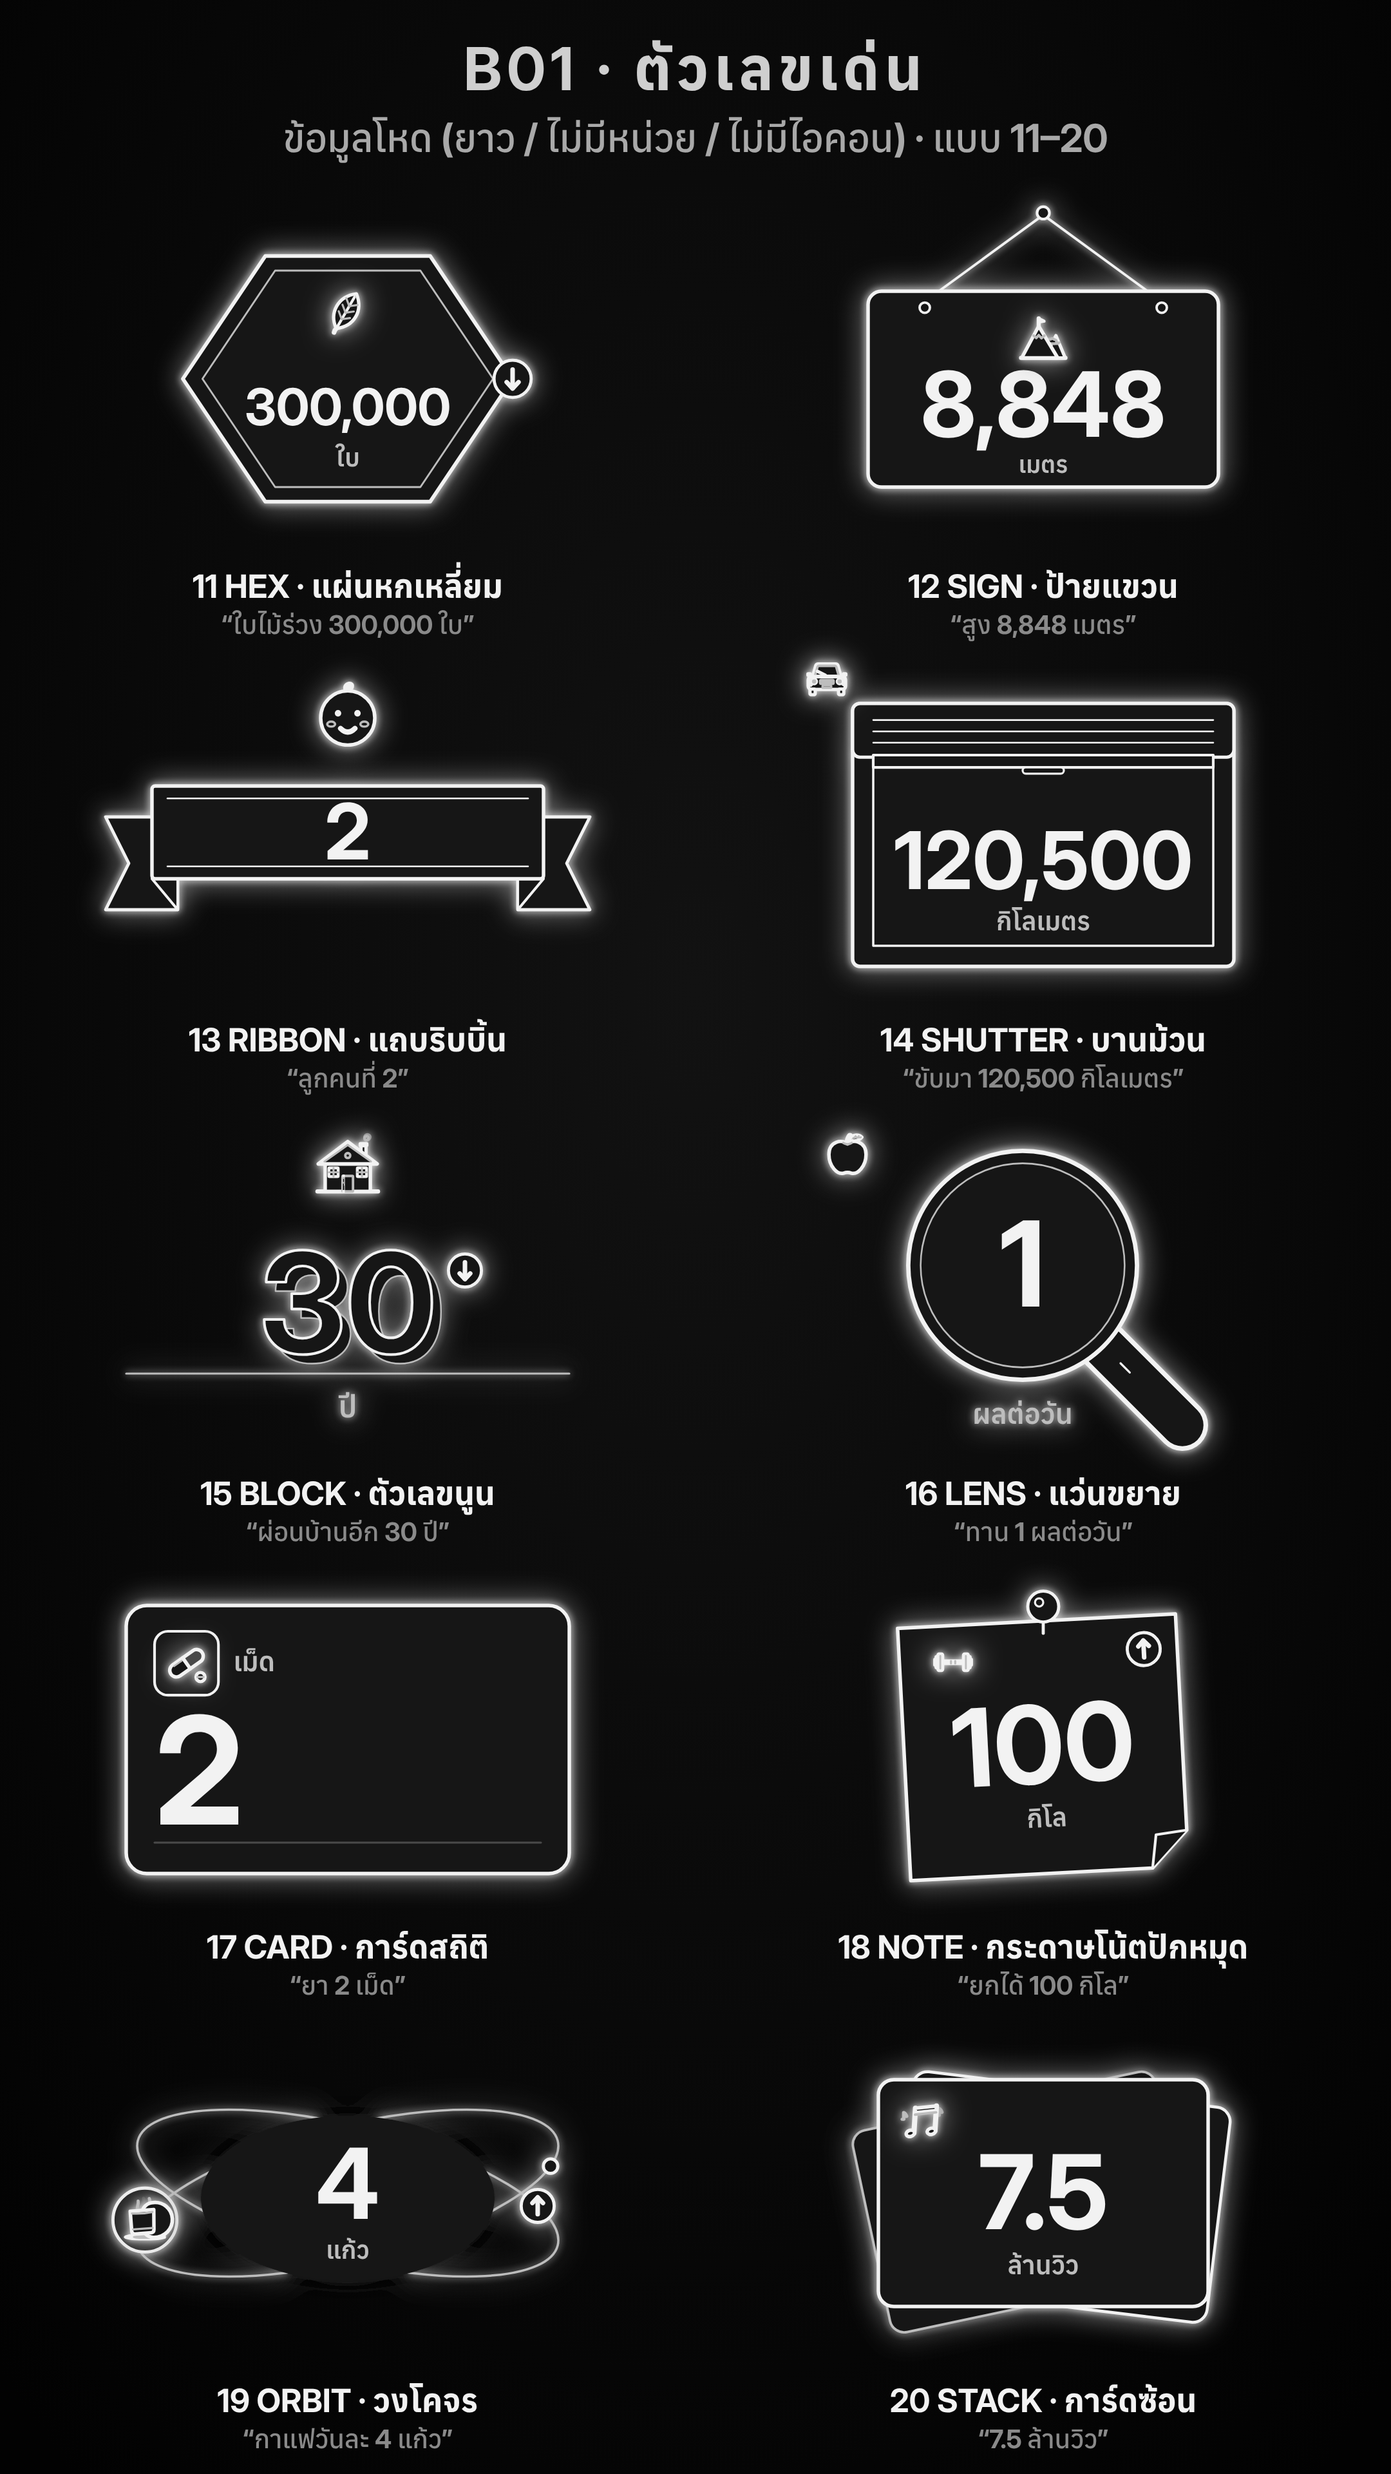
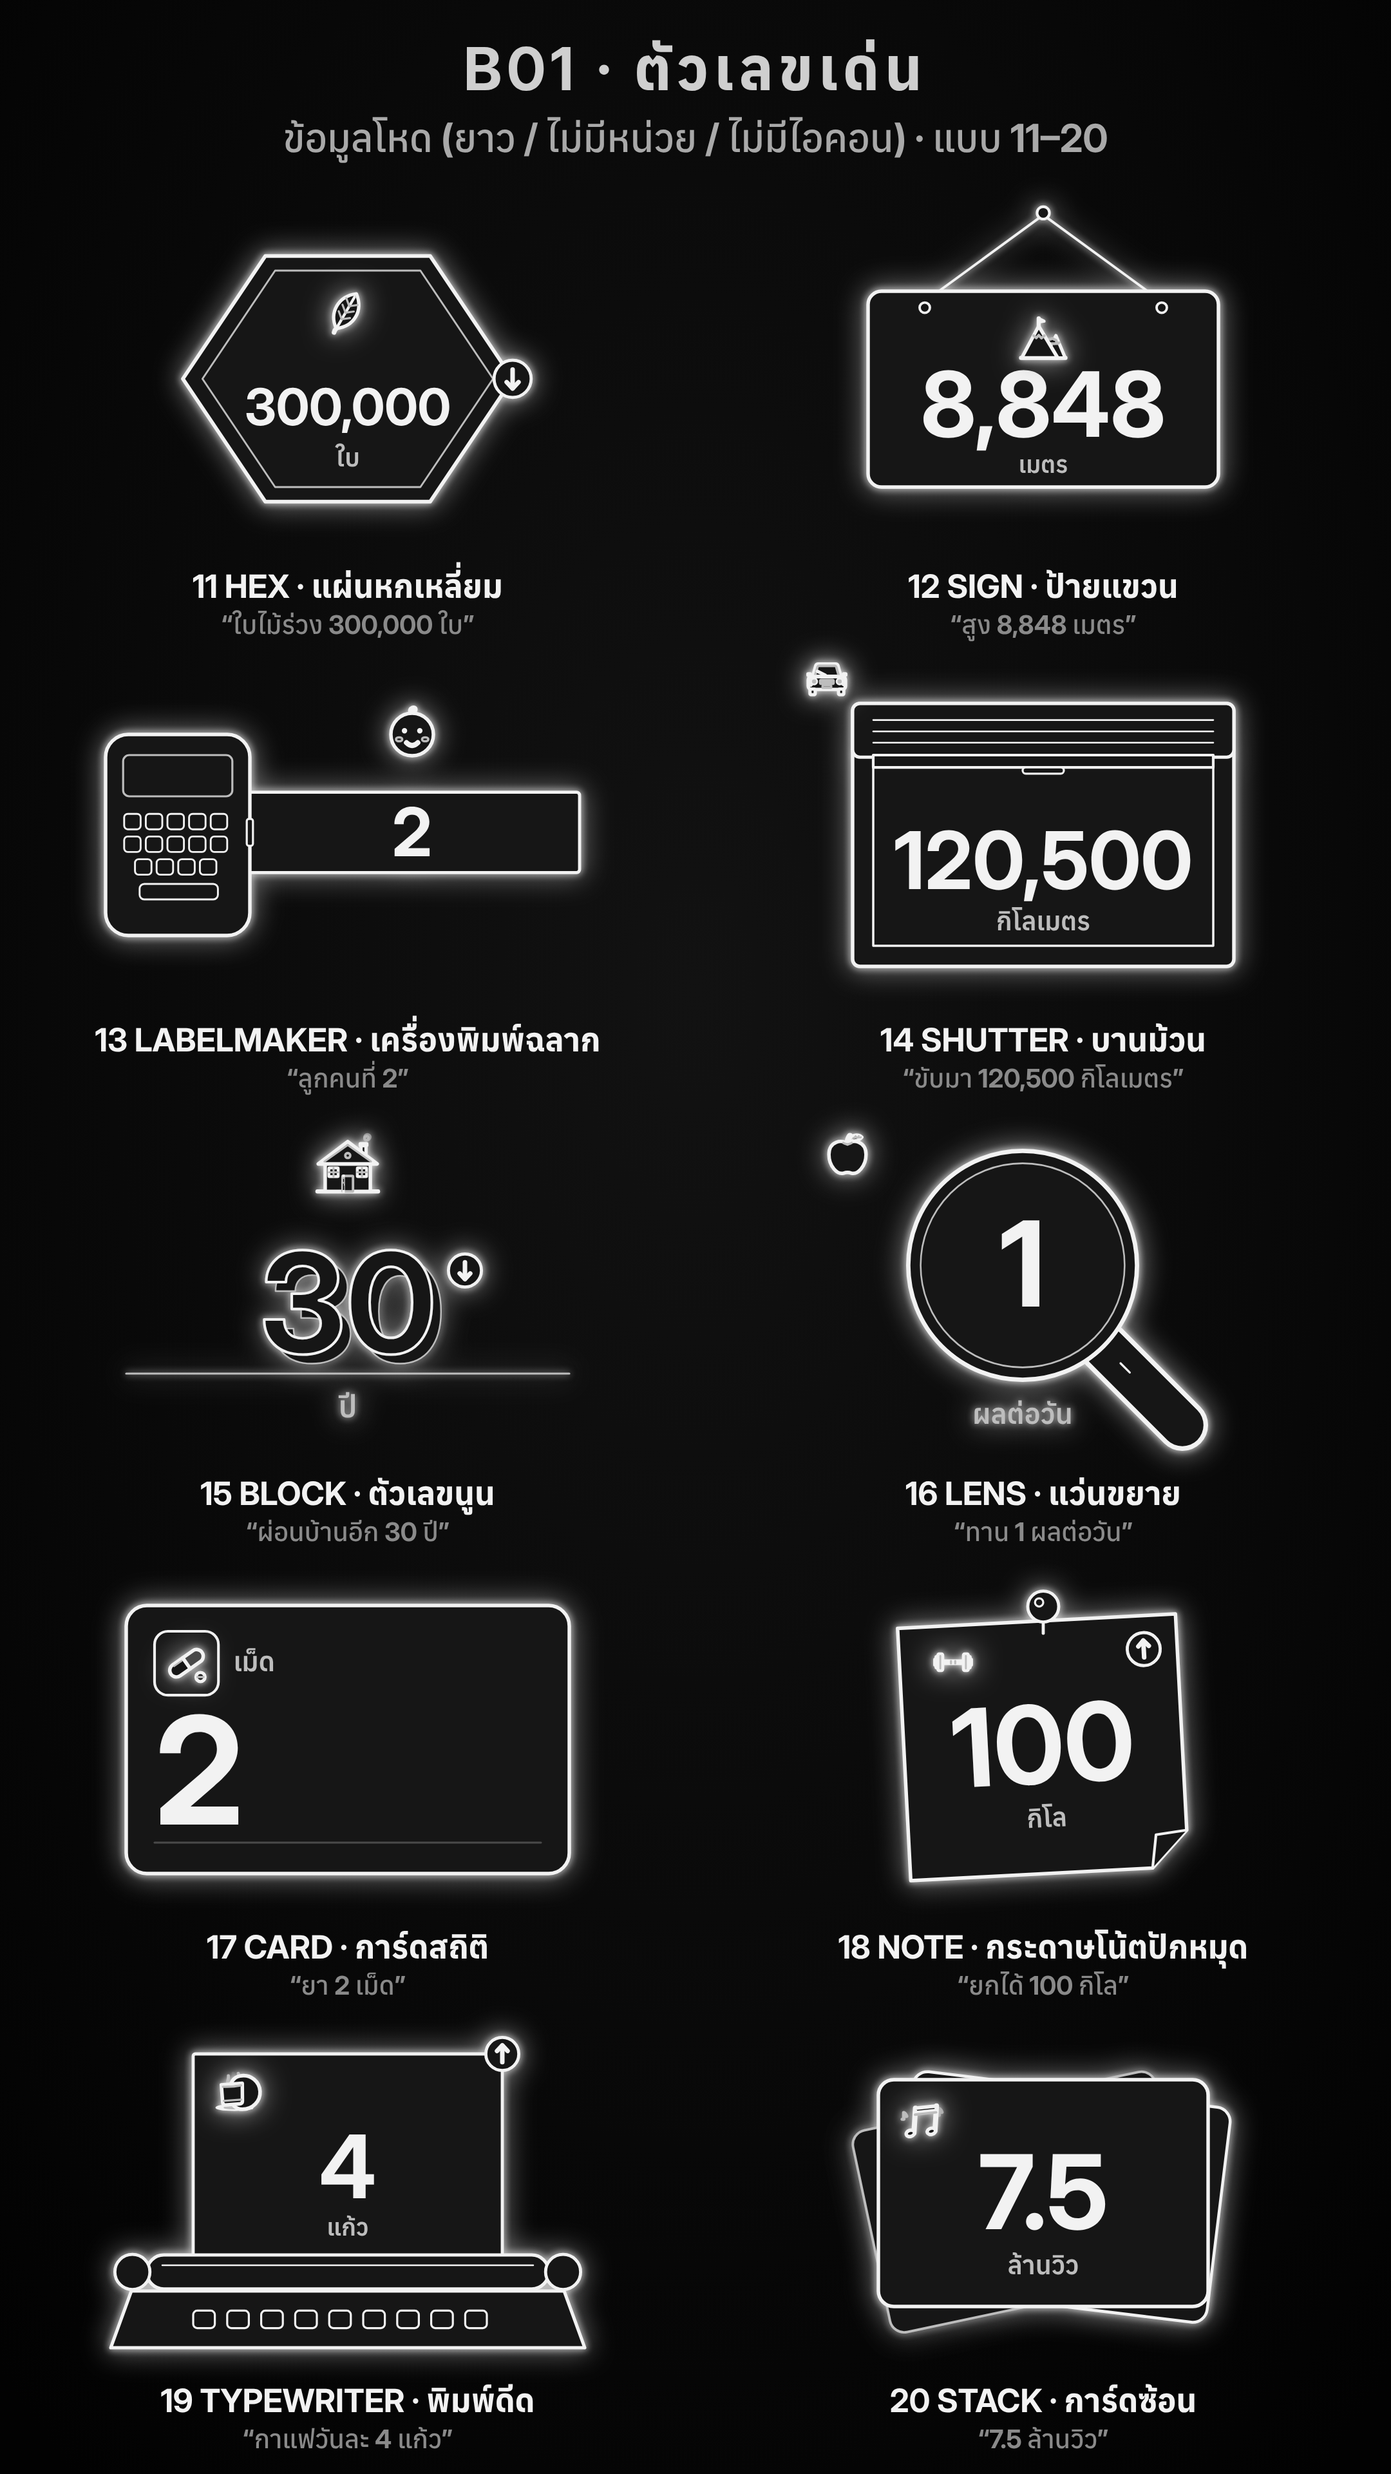
glow-line-motion: B01 design 19 = typewriter, 13 = label maker (user's picks); sheets updated
Claude-Session: https://claude.ai/code/session_01S8EfU7fAEGeBWyNc1CqSTP

Changed region(s): [[0.062, 0.8125, 0.4343, 1.0], [0.062, 0.25, 0.4343, 0.4375], [0.2792, 0.4062, 0.4343, 0.4375]]

diff --git a/.claude/skills/glow-line-motion/examples/b01/b01.js b/.claude/skills/glow-line-motion/examples/b01/b01.js
@@ -257,18 +257,20 @@
     icon(d, 0, -78, 88, c);
   });
 
-  /* 13 ── RIBBON: a banner with folded tails, unit under it, icon above */
-  variant('ribbon', 'แถบริบบิ้น', (d, c) => {
+  /* 13 ── LABEL MAKER: a hand label maker has printed the number on a strip of tape (user's pick over RIBBON, 2026-11-12) */
+  variant('labelmaker', 'เครื่องพิมพ์ฉลาก', (d, c) => {
     art(c, p => {
-      [-1, 1].forEach(s => { p.shape([[s * 470, -30], [s * 330, -30], [s * 330, 150], [s * 470, 150], [s * 425, 60]], F(3));
-        p.shape([[s * 380, 90], [s * 330, 150], [s * 330, 90]], F(2.6)); });
-      p.rect(-380, -90, 760, 180, Object.assign({ rx: 6 }, F(3.4)));
-      p.line(-350, -66, 350, -66, W(1.6)); p.line(-350, 66, 350, 66, W(1.6));
-      txt(p, d.value, 0, 52, { size: 150, maxW: 640 });
-      if (d.unit) txt(p, d.unit, 0, 245, { size: 58, weight: 600, color: C.soft, maxW: 720 });
-      dirBadge(p, d.dir, 380, -90, 32);
+      p.rect(-200, -78, 650, 156, Object.assign({ rx: 6 }, F(3)));
+      p.rect(-470, -190, 280, 390, Object.assign({ rx: 44 }, F(3.4)));
+      p.rect(-436, -150, 212, 80, Object.assign({ rx: 12 }, { fill: C.fill, sw: 2, stroke: C.soft }));
+      for (let r = 0; r < 3; r++) for (let k = 0; k < 5 - (r === 2 ? 1 : 0); k++) p.rect(-434 + k * 42 + (r === 2 ? 21 : 0), -36 + r * 44, 32, 30, Object.assign({ rx: 7 }, F(1.8)));
+      p.rect(-404, 100, 152, 30, Object.assign({ rx: 9 }, F(1.8)));
+      p.rect(-196, -26, 12, 52, Object.assign({ rx: 4 }, F(2)));
+      txt(p, d.value, 125, 46, { size: 130, maxW: 560 });
+      if (d.unit) txt(p, d.unit, 125, 160, { size: 52, weight: 600, color: C.soft, maxW: 600 });
+      dirBadge(p, d.dir, 450, -78, 30);
     });
-    icon(d, 0, -222, 140, c);
+    icon(d, 125, -190, 110, c);
   });
 
   /* 14 ── SHUTTER: a roller shutter has rolled up into its box, the number stands in the opening (user picked it over CUBE, 2026-11-12) */
@@ -343,29 +345,8 @@
     icon(d, -175, -150, 82, c);
   });
 
-  /* round-2 alternatives (2026-11-12): the user turned down neon / marker / letterboard for 19, and asked to redesign 13 too —
-     everyday objects with a mechanism (what the user picked so far: pinned note, roller shutter). Kept outside V until picked. */
-  const ALT19 = [], ALT13 = [];
-  const alt = (L, id, th, build) => L.push({ id, th, build });
-
-  /* 19a ── STAMP: a rubber stamp has just printed the number onto a sheet of paper */
-  alt(ALT19, 'stamp', 'ตรายาง', (d, c) => {
-    art(c, p => {
-      const q = p.child({ transform: 'rotate(-3 -110 70)' });
-      q.rect(-420, -140, 620, 400, Object.assign({ rx: 10 }, F(3.2)));
-      const t = txt(q, d.value, -110, d.unit ? 95 : 115, { size: 170, maxW: 460 }), bb = t.bb;
-      const bw = Math.max(bb.width, d.unit ? 260 : 0) + 70;
-      q.rect(f1(-110 - bw / 2), -40, f1(bw), d.unit ? 230 : 210, { rx: 18, sw: 4.4 });
-      if (d.unit) txt(q, d.unit, -110, 165, { size: 44, weight: 700, maxW: bw - 50 });
-      p.rect(200, -168, 200, 36, Object.assign({ rx: 6 }, F(3))); p.rect(214, -232, 172, 64, Object.assign({ rx: 10 }, F(3.2)));
-      p.rect(278, -286, 44, 54, F(2.8)); p.ellipse(300, -306, 58, 34, F(3.2)); p.line(228, -200, 372, -200, W(1.6));
-      dirBadge(p, d.dir, -420, -140, 32);
-    });
-    icon(d, 60, -250, 100, c);
-  });
-
-  /* 19b ── TYPEWRITER: the number has been typed on a sheet that sits in the platen roller */
-  alt(ALT19, 'typewriter', 'พิมพ์ดีด', (d, c) => {
+  /* 19 ── TYPEWRITER: the number has been typed on a sheet that sits in the platen roller (user's pick over ORBIT, 2026-11-12) */
+  variant('typewriter', 'พิมพ์ดีด', (d, c) => {
     art(c, p => {
       p.path('M -420 190 L 420 190 L 460 300 L -460 300 Z', F(3.2));
       for (let i = 0; i < 9; i++) p.rect(-300 + i * 66, 228, 42, 34, Object.assign({ rx: 8 }, F(2)));
@@ -377,87 +358,6 @@
       dirBadge(p, d.dir, 300, -270, 32);
     });
     icon(d, -220, -195, 80, c);
-  });
-
-  /* 19c ── DOT BOARD: an LED dot board — the number is made of lit dots (unlit dots are not drawn) */
-  const DOTS = { 0: ['01110', '10001', '10011', '10101', '11001', '10001', '01110'], 1: ['00100', '01100', '00100', '00100', '00100', '00100', '01110'],
-    2: ['01110', '10001', '00001', '00010', '00100', '01000', '11111'], 3: ['11110', '00001', '00001', '01110', '00001', '00001', '11110'],
-    4: ['00010', '00110', '01010', '10010', '11111', '00010', '00010'], 5: ['11111', '10000', '11110', '00001', '00001', '10001', '01110'],
-    6: ['00110', '01000', '10000', '11110', '10001', '10001', '01110'], 7: ['11111', '00001', '00010', '00100', '01000', '01000', '01000'],
-    8: ['01110', '10001', '10001', '01110', '10001', '10001', '01110'], 9: ['01110', '10001', '10001', '01111', '00001', '00010', '01100'],
-    ',': ['00', '00', '00', '00', '00', '01', '10'], '.': ['0', '0', '0', '0', '0', '0', '1'], '%': ['11001', '11010', '00010', '00100', '01000', '01011', '10011'] };
-  alt(ALT19, 'dots', 'ป้ายจุดไฟ', (d, c) => {
-    const G2 = [...String(d.value)].map(ch => DOTS[ch]).filter(Boolean), cols = G2.reduce((n, g) => n + g[0].length + 1, -1);
-    const pitch = Math.min(40, 740 / cols, 300 / 7), r = pitch * .36, w = cols * pitch, cy = d.unit ? -30 : 0;
-    art(c, p => {
-      p.rect(-420, -230, 840, 460, Object.assign({ rx: 28 }, F(3.4)));
-      p.rect(-390, -200, 780, 400, { rx: 14, fill: C.fill, sw: 2, stroke: C.soft });
-      let x = -w / 2 + pitch / 2;
-      G2.forEach(g => { g.forEach((row, ry) => [...row].forEach((b, cx) => { if (b === '1') p.circle(f1(x + cx * pitch), f1(cy - 3 * pitch + ry * pitch), f1(r), { fill: C.ink, sw: 1 }); })); x += (g[0].length + 1) * pitch; });
-      if (d.unit) txt(p, d.unit, 0, 168, { size: 50, weight: 600, color: C.soft, maxW: 700 });
-      dirBadge(p, d.dir, 420, -230, 32);
-    });
-    icon(d, -360, -290, 90, c);
-  });
-
-  /* 13a ── LABEL MAKER: a hand label maker has printed the number on a strip of tape */
-  alt(ALT13, 'labelmaker', 'เครื่องพิมพ์ฉลาก', (d, c) => {
-    art(c, p => {
-      p.rect(-200, -78, 650, 156, Object.assign({ rx: 6 }, F(3)));
-      p.rect(-470, -190, 280, 390, Object.assign({ rx: 44 }, F(3.4)));
-      p.rect(-436, -150, 212, 80, Object.assign({ rx: 12 }, { fill: C.fill, sw: 2, stroke: C.soft }));
-      for (let r = 0; r < 3; r++) for (let k = 0; k < 5 - (r === 2 ? 1 : 0); k++) p.rect(-434 + k * 42 + (r === 2 ? 21 : 0), -36 + r * 44, 32, 30, Object.assign({ rx: 7 }, F(1.8)));
-      p.rect(-404, 100, 152, 30, Object.assign({ rx: 9 }, F(1.8)));
-      p.rect(-196, -26, 12, 52, Object.assign({ rx: 4 }, F(2)));
-      txt(p, d.value, 125, 46, { size: 130, maxW: 560 });
-      if (d.unit) txt(p, d.unit, 125, 160, { size: 52, weight: 600, color: C.soft, maxW: 600 });
-      dirBadge(p, d.dir, 450, -78, 30);
-    });
-    icon(d, 125, -190, 110, c);
-  });
-
-  /* 13b ── STICKER: a round sticker, its edge curling up where it is being pressed on */
-  alt(ALT13, 'sticker', 'สติกเกอร์', (d, c) => {
-    const P = a => [f1(250 * Math.cos(rad(a))), f1(-10 + 250 * Math.sin(rad(a)))], A = P(18), B = P(72);
-    art(c, p => {
-      p.path(`M ${A[0]} ${A[1]} A 250 250 0 1 0 ${B[0]} ${B[1]} Z`, F(3.4));
-      p.path(`M ${A[0]} ${A[1]} Q 110 90 ${B[0]} ${B[1]} Q 150 140 ${A[0]} ${A[1]} Z`, { fill: C.fill, sw: 2.6, stroke: C.soft });
-      txt(p, d.value, -20, d.unit ? 40 : 60, { size: 180, maxW: 380 });
-      if (d.unit) txt(p, d.unit, -20, 112, { size: 46, weight: 600, color: C.soft, maxW: 300 });
-      dirBadge(p, d.dir, -200, -170, 32);
-    });
-    icon(d, -20, -160, 90, c);
-  });
-
-  /* 13c ── TENT SIGN: a folded card stands on a table, the number on its front face */
-  alt(ALT13, 'tent', 'ป้ายตั้งโต๊ะ', (d, c) => {
-    art(c, p => {
-      p.line(-470, 206, 470, 206, { sw: 2.2, stroke: C.soft });
-      p.path('M -350 -168 L 350 -168 L 330 -196 L -330 -196 Z', F(2.6));
-      p.path('M -350 -168 L 350 -168 L 392 204 L -392 204 Z', F(3.4));
-      p.line(-350, -168, 350, -168, W(3));
-      txt(p, d.value, 0, d.unit ? 72 : 95, { size: 210, maxW: 640 });
-      if (d.unit) txt(p, d.unit, 0, 152, { size: 50, weight: 600, color: C.soft, maxW: 620 });
-      dirBadge(p, d.dir, 350, -168, 32);
-    });
-    icon(d, 0, -268, 110, c);
-  });
-
-  /* 19 ── ORBIT: two orbits circle the number; the icon rides one of them */
-  variant('orbit', 'วงโคจร', (d, c) => {
-    const on = (rx, ry, rot, a) => { const x = rx * Math.cos(rad(a)), y = ry * Math.sin(rad(a)), r = rad(rot); return [x * Math.cos(r) - y * Math.sin(r), x * Math.sin(r) + y * Math.cos(r)]; };
-    const ip = on(420, 130, -14, 200), dp = on(420, 130, 14, 330);
-    art(c, p => {
-      p.child({ transform: 'rotate(-14)' }).ellipse(0, 0, 420, 130, { sw: 2.2, stroke: C.soft });
-      p.child({ transform: 'rotate(14)' }).ellipse(0, 0, 420, 130, { sw: 2.2, stroke: C.soft });
-      p.ellipse(0, 10, 285, 160, { fill: C.fill, stroke: 'none', sw: 0 });
-      txt(p, d.value, 0, d.unit ? 50 : 70, { size: 190, maxW: 480 });
-      if (d.unit) txt(p, d.unit, 0, 128, { size: 48, weight: 600, color: C.soft, maxW: 400 });
-      const pp = on(420, 130, -14, 20); p.circle(f1(pp[0]), f1(pp[1]), 14, F(3));
-      if (d.icon) p.circle(f1(ip[0]), f1(ip[1]), 62, F(3));
-      if (d.dir) dirBadge(p, d.dir, dp[0], dp[1], 32); else p.circle(f1(dp[0]), f1(dp[1]), 10, F(3));
-    });
-    icon(d, ip[0], ip[1], 90, c);
   });
 
   /* 20 ── STACK: a fan of three cards, the number on the front one */
@@ -520,5 +420,5 @@
   ];
 
   G.cats = G.cats || {};          // GL.B01 is taken by the older beats.js template
-  G.cats.B01 = { variants: V, ALT19, ALT13, SAMPLES, STRESS, draw: (i, d, c) => V[i].build(d, c) };
+  G.cats.B01 = { variants: V, SAMPLES, STRESS, draw: (i, d, c) => V[i].build(d, c) };
 })();

diff --git a/.claude/skills/glow-line-motion/HANDOFF.md b/.claude/skills/glow-line-motion/HANDOFF.md
@@ -34,14 +34,12 @@
   ตาม CATEGORIES ข้อ 9, ทำวิดีโอ.
 - ผู้ใช้: **"Design 18 ใหม่ ผมไม่ชอบแบบนั้น"** (burst) → เสนอ 3 ทาง (iris / scroll / note) → ผู้ใช้ **"เอา C"** → แบบ 18 = `note` กระดาษโน้ตปักหมุด (burst ลบแล้ว).
 - ผู้ใช้: **"Redesign 14 ด้วย"** (cube) → เสนอ 3 ทาง (plinth / shutter / flip) → ผู้ใช้ **"B"** → แบบ 14 = `shutter` บานม้วน (cube ลบแล้ว).
-- ตอนนี้ 20 แบบ: hero drum lcd gauge ring bar ruler column frame spotlight hex sign ribbon **shutter** block lens card **note** orbit stack.
-  **รอผู้ใช้ตอบว่าภาพนิ่งทั้ง 20 ผ่านหรือยัง** → ผ่านแล้วค่อยใส่ท่าขยับ.
 - ผู้ใช้: **"Redesign 19"** (orbit) → รอบ 1 เสนอ neon / marker / letterboard → ผู้ใช้ **"ไม่ชอบเลยเอาใหม่" + "Redesign 13 ด้วย"** (ribbon).
   รสนิยมที่เห็น: เลือก **ของในชีวิตประจำวันที่มีกลไก** (กระดาษโน้ตปักหมุด, บานม้วน); ไม่เลือก: burst cube orbit ribbon neon marker letterboard iris scroll plinth flip.
-  → รอบ 2 เสนอ `ALT19`: A stamp ตรายาง · B typewriter พิมพ์ดีด · C dots ป้ายจุดไฟ (`alt19.html`, `b01-19-options.png`)
-  และ `ALT13`: A labelmaker เครื่องพิมพ์ฉลาก (แป้นแบบคีย์บอร์ด — แบบ 3×3 ดูเป็นเครื่องคิดเลข ไม่กลาง) · B sticker สติกเกอร์ · C tent ป้ายตั้งโต๊ะ
-  (`alt13.html`, `b01-13-options.png`). **รอผู้ใช้เลือก** → ใส่แทนใน `V` (orbit / ribbon) แล้วลบ ALT + แผ่น alt + ภาพ options
-  (python ตัดบล็อก, เปลี่ยน `alt(ALT19, ` → `variant(`, เอา ALT ออกจาก export).
+  → รอบ 2 เสนอ 19: stamp / typewriter / dots และ 13: labelmaker / sticker / tent → ผู้ใช้ **"19 b 13 a"** →
+  แบบ 19 = `typewriter` พิมพ์ดีด · แบบ 13 = `labelmaker` เครื่องพิมพ์ฉลาก (orbit, ribbon ลบแล้ว).
+- **ตอนนี้ 20 แบบ:** hero drum lcd gauge ring bar ruler column frame spotlight hex sign labelmaker shutter block lens card note typewriter stack.
+  แผ่นทั้ง 4 อัปเดตแล้ว. **รอผู้ใช้ตอบว่าภาพนิ่งทั้ง 20 "ผ่าน"** → แล้วค่อยใส่ท่าขยับ 3–4 จังหวะทีละแบบ + วิดีโอ.
 
 ## ✅ ตัวปรับท่าขยับกลาง — ทำเสร็จแล้ว (2026-11-12) · ผู้ใช้ตอบ **"ผ่าน"**
 
